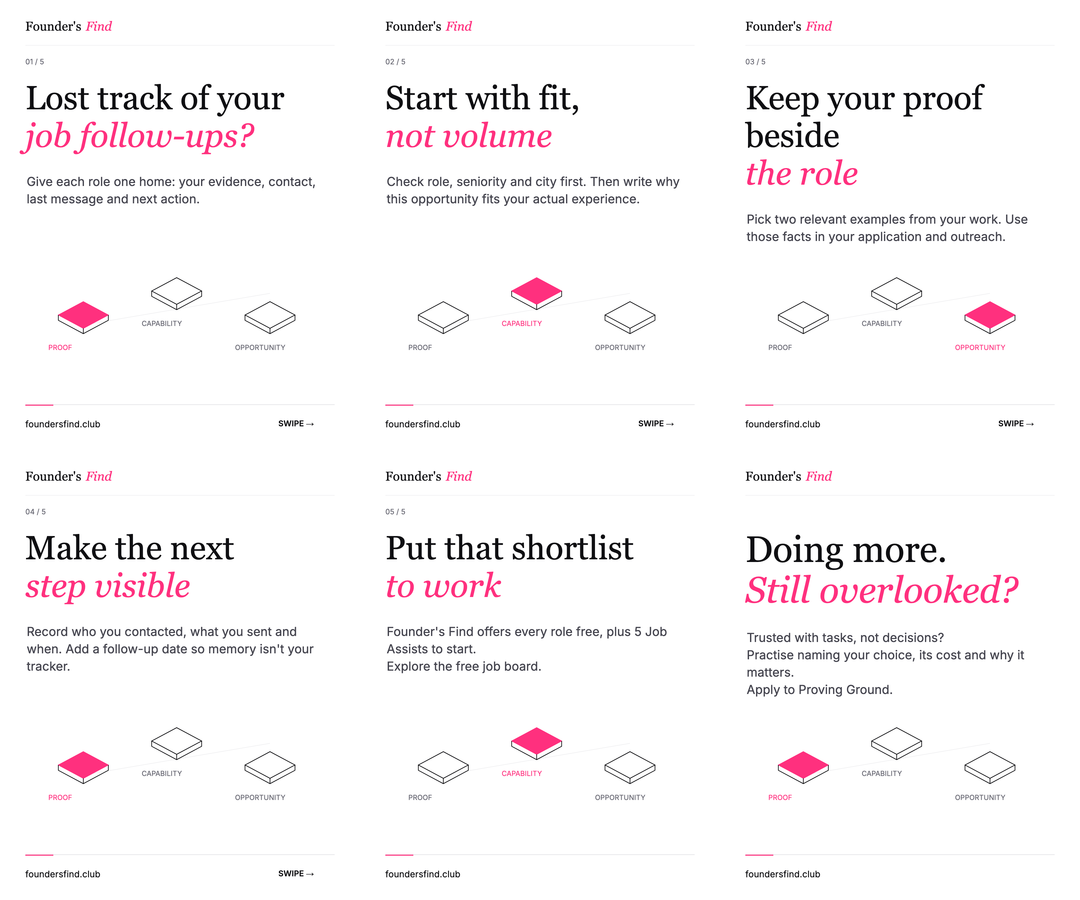
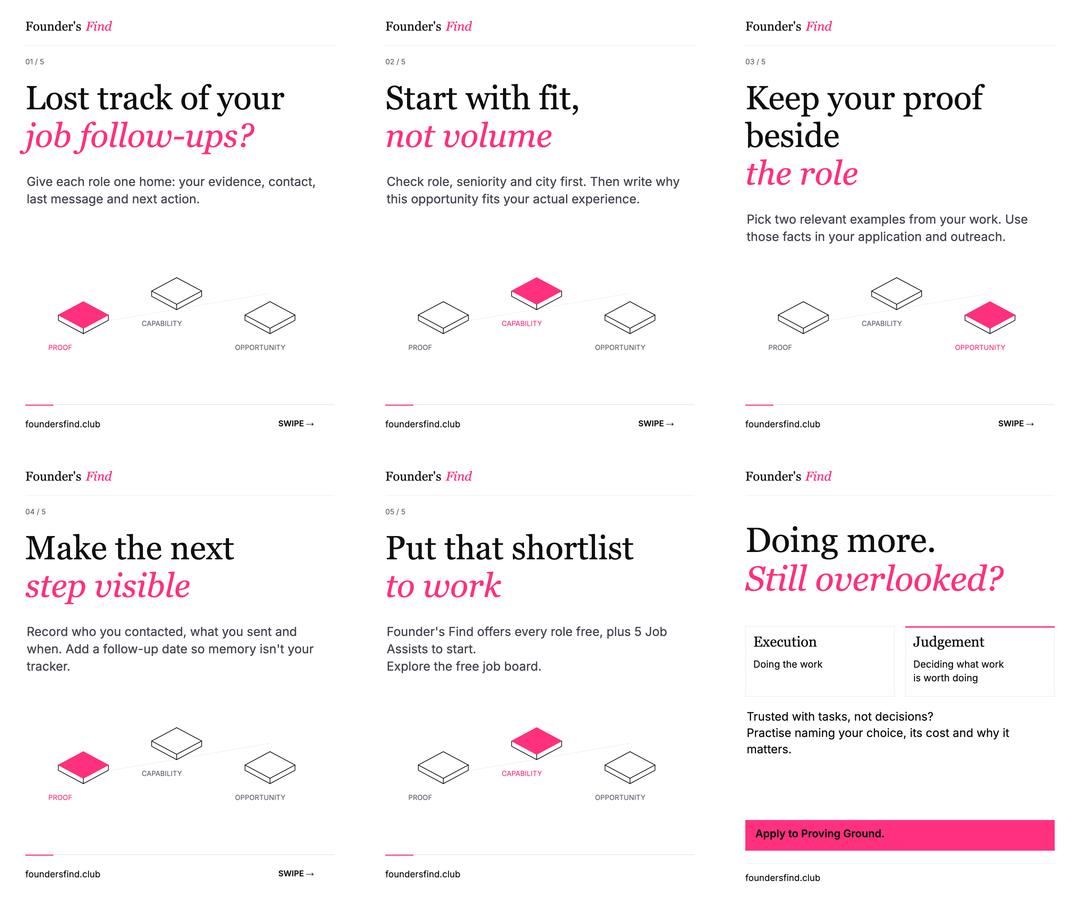
Apply static-ad reference patterns to Founder’s Find creatives

Changed region(s): [[0.6722, 0.5911, 0.9778, 0.9956]]

diff --git a/src/render.ts b/src/render.ts
@@ -1,3 +1,4 @@
+import {drawStaticAd} from './staticAds';
 import { zipSync, strToU8 } from 'fflate';
 import {typographyOnly} from '../convex/brandPresentation';
 import {foundersPalette} from '../convex/brandPalette';
@@ -26,7 +27,7 @@ export async function drawFrame(post:Post,brand:Brand,index:number,progress=0,ca
  const {ink,paper,primary:green,accent:gold}=palette;
  const onPrimary=contrast(paper,green)>=4.5?paper:ink;
  if(isFounders)await Promise.all([400,600,700].map(w=>document.fonts.load(`${w} 40px "Brand Inter"`)));
- if(typographyOnly(brand))return drawFounders(post,brand,index,progress,canvas);
+ if(typographyOnly(brand))return post.format==='static'?drawStaticAd(post,brand):drawFounders(post,brand,index,progress,canvas);
  const pics=await images(brand);const c=canvas??document.createElement('canvas');c.width=1080;c.height=post.format==='reel'?1920:1350;c.dataset.ink=ink;c.dataset.font=isFounders?'"Brand Inter"':'Arial';const ctx=c.getContext('2d')!;const h=c.height;const frame=post.frames[index];
  ctx.fillStyle=paper;ctx.fillRect(0,0,1080,h);
  ctx.fillStyle=green;ctx.fillRect(64,60,34,8);
@@ -102,8 +103,8 @@ export async function exportImages(posts:Post[],brand:Brand,onProgress:(s:string
   onProgress(`Rendering ${p.format} ${i+1} of ${p.frames.length}`);
   files[`${p.format}/${String(i+1).padStart(2,'0')}.png`]=new Uint8Array(await (await frameBlob(p,brand,i)).arrayBuffer());
  }
- files['captions.txt']=strToU8(posts.map(p=>`${p.format.toUpperCase()}\n\n${p.caption}\n\nALT TEXT\n${typographyOnly(brand)?'Founder’s Find typography-led '+p.format+' with serif headlines, pink italic emphasis and thin-line career diagrams. '+p.frames.map(f=>f.heading).join(' / '):p.altText}`).join('\n\n----------\n\n'));
- files['sources.txt']=strToU8(`${brand.sourceUrl}\n\n${brand.facts.join('\n')}\n\nBrand voice and audience emotions are inferred. ${typographyOnly(brand)?'Typography and original geometric diagrams based on the website. No AI faces.':brand.artwork?.note??'Shared original fictional sample artwork.'} Imagery is conceptual, not a customer testimonial or an exact product photograph. ${ads.length?'Imported ad sources (structural inspiration only, no performance claims):\n'+ads.map(a=>a.pageName+' — '+a.snapshotUrl).join('\n'):'No ad-library records were imported.'} Reel video is downloaded separately.`);
+ files['captions.txt']=strToU8(posts.map(p=>`${p.format.toUpperCase()}\n\n${p.caption}\n\nALT TEXT\n${typographyOnly(brand)?'Founder’s Find typography-led '+p.format+' with serif headlines and pink italic emphasis. '+(p.format==='static'?'Execution and judgement comparison panels. ':'Thin-line career diagrams. ')+p.frames.map(f=>f.heading).join(' / '):p.altText}`).join('\n\n----------\n\n'));
+ files['sources.txt']=strToU8(`${brand.sourceUrl}\n\n${brand.facts.join('\n')}\n\nBrand voice and audience emotions are inferred. ${typographyOnly(brand)?'Typography and original geometric diagrams based on the website. No AI faces.':brand.artwork?.note??'Shared original fictional sample artwork.'} Imagery is conceptual, not a customer testimonial or an exact product photograph. ${ads.length?'Imported ad sources (structural inspiration only, no performance claims):\n'+ads.map(a=>a.pageName+' — '+a.snapshotUrl).join('\n'):'No ad-library records were imported.'} ${typographyOnly(brand)?'Static composition inspiration: founder-supplied 98 Static Ads overview board, saved in design/inspiration-library/assets/static-ads-board.png. Composition-level reference only; individual ad copy and performance are not verified. ':''}Reel video is downloaded separately.`);
  download(new Blob([zipSync(files) as BlobPart],{type:'application/zip'}),`${brand.name.toLowerCase().replace(/\W+/g,'-')}-instagram.zip`);
 }
 export async function exportReel(post:Post,brand:Brand,onProgress:(s:string)=>void){

diff --git a/src/staticAds.ts b/src/staticAds.ts
@@ -1,0 +1,33 @@
+import type {Brand,Post} from '../convex/studioTypes';
+export type StaticLayout='headline'|'comparison'|'note';
+export async function drawStaticAd(post:Post,brand:Brand,layout:StaticLayout='comparison'){
+ await Promise.all([400,600].map(w=>document.fonts.load(`${w} 40px "Brand Inter"`)));
+ const canvas=document.createElement('canvas');canvas.width=1080;canvas.height=1350;const ctx=canvas.getContext('2d')!;
+ const ink='#0f0f12',pink='#ff307e';ctx.fillStyle='#fff';ctx.fillRect(0,0,1080,1350);ctx.textBaseline='top';
+ function text(value:string,x:number,y:number,width:number,size:number,line:number,font='"Brand Inter"',colour=ink,style='400'){
+  ctx.font=`${style} ${size}px ${font}`;ctx.fillStyle=colour;
+  for(const para of value.split('\n')){let row='';for(const word of para.split(/\s+/)){const next=row?row+' '+word:word;if(row&&ctx.measureText(next).width>width){ctx.fillText(row,x,y);y+=line;row=word;}else row=next;}ctx.fillText(row,x,y);y+=line;}return y;
+ }
+ const rule=(y:number)=>{ctx.strokeStyle='#e5e5e8';ctx.lineWidth=1;ctx.beginPath();ctx.moveTo(76,y);ctx.lineTo(1004,y);ctx.stroke();};
+ text("Founder's",76,62,500,38,46,'Georgia');ctx.font='400 38px Georgia';const offset=ctx.measureText("Founder's").width;text('Find',88+offset,62,400,38,46,'Georgia',pink,'italic');rule(136);
+ const words=post.hook.split(/\s+/),last=words.length>=4?words.splice(-2).join(' '):'';
+ let y=text(last?words.join(' '):post.hook,76,225,928,104,116,'Georgia');if(last)y=text(last,76,y,928,104,116,'Georgia',pink,'italic');
+ const lines=post.frames[0].body.split('\n'),tail=lines.at(-1)??'',hasAction=/^(apply|explore|start|see|visit|join|try|learn|discover|get)\b/i.test(tail);
+ const value=hasAction?lines.slice(0,-1).join('\n'):lines.join('\n');
+ if(layout==='comparison'){
+  const top=y+72;ctx.strokeStyle='#dedee3';ctx.lineWidth=1;ctx.strokeRect(76,top,448,210);ctx.strokeRect(556,top,448,210);
+  text('Execution',100,top+28,390,43,55,'Georgia');text('Doing the work',100,top+101,375,29,41);
+  text('Judgement',580,top+28,390,43,55,'Georgia');text('Deciding what work\nis worth doing',580,top+101,375,29,41);
+  ctx.fillStyle=pink;ctx.fillRect(556,top,448,4);y=text(value,80,top+255,900,35,49);
+ }else if(layout==='note'){
+  const top=y+72;ctx.fillStyle='#fff3f7';ctx.fillRect(76,top,928,360);ctx.fillStyle=pink;ctx.fillRect(76,top,928,3);
+  y=text(value,110,top+48,860,41,58);if(y>top+340)throw new Error('This copy is too long for the note layout.');
+ }else{
+  y=text(value,80,y+76,900,43,61);
+  if(y<920){rule(980);text('Proof  /  Capability  /  Opportunity',80,1020,900,26,36);}
+ }
+ if(y>1080)throw new Error('The static-ad copy is too long for this layout.');
+ if(hasAction){ctx.fillStyle=pink;ctx.fillRect(76,1110,928,92);text(tail,106,1136,870,32,42,'"Brand Inter"',ink,'600');}
+ rule(1240);text(new URL(brand.sourceUrl).hostname,76,1271,900,27,36);
+ return canvas;
+}

diff --git a/MORNING.md b/MORNING.md
@@ -1,3 +1,9 @@
+# Latest update — supplied static-ad board
+
+The original board is saved unchanged in `design/inspiration-library/assets/static-ads-board.png`. It is a 1920 × 1080 overview titled “98 STATIC ADS”; small individual ad copy is not reliably readable. Observed composition patterns are documented in `design/inspiration-library/board-patterns.md`.
+
+Three Founder’s Find static layouts now use those patterns: headline, comparison and note. Examples are in `verification/static-ad-variants/`, with the same approved caption in `caption.txt`. The app’s static post now uses the comparison layout; carousel and reel keep their website-led diagram style. No AI faces, fabricated testimonials, competitor claims or performance claims were added. All three PNGs were exported in Chromium and visually inspected.
+
 # Latest correction — Founder’s Find visual brand
 
 Founder feedback supersedes the earlier photographic direction below. Founder’s Find now uses the website’s Georgia serif headlines, pink italic emphasis, white space and thin-line geometric diagrams. AI faces are removed from previews, image exports and motion reels. Its image/avatar generation controls are removed and automatic portrait requests are disabled. Other brands retain their separate media support. Source-backed content was not rewritten during this visual fix. Updated ZIP and MP4 exports passed desktop/mobile browser checks; all six PNGs and a reel frame were visually inspected. Exported alt text now describes the typographic artwork rather than the old portraits.
